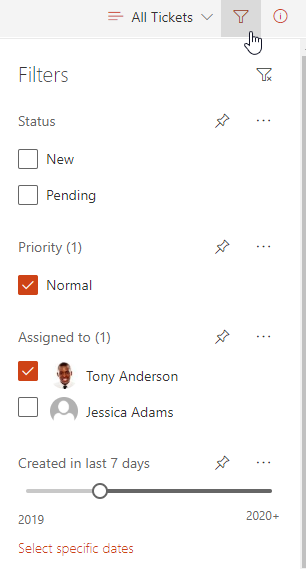
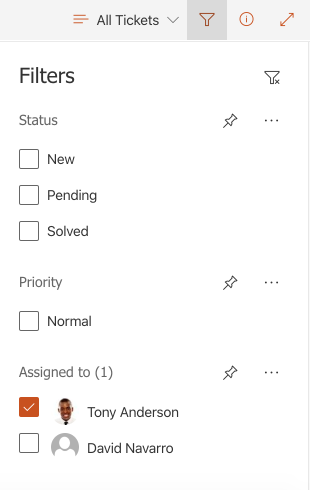
corrected the All Tickets view article in Online

diff --git a/Online/User Guide/All tickets.rst b/Online/User Guide/All tickets.rst
@@ -9,6 +9,21 @@ open the filtration tab:
 
 |alltickets_filters|
 
+The filter will be applied on the view immediately:
+
+|alltickets_filtered|
+
+You can also filter by a period of tume. Use the **Created** and **Due date** sliders 
+to set any custom period, including days in past or future:
+
+|alltickets_filters_by_date|
+
 
 .. |alltickets_filters| image:: ../_static/img/online-user-guide-all-tickets-01.png
    :alt: All tickets filters
+
+.. |alltickets_filtered| image:: ../_static/img/online-user-guide-all-tickets-02.png
+   :alt: All tickets filtered
+
+.. |alltickets_filters_by_date| image:: ../_static/img/online-user-guide-all-tickets-03.png
+   :alt: All tickets filters by date
